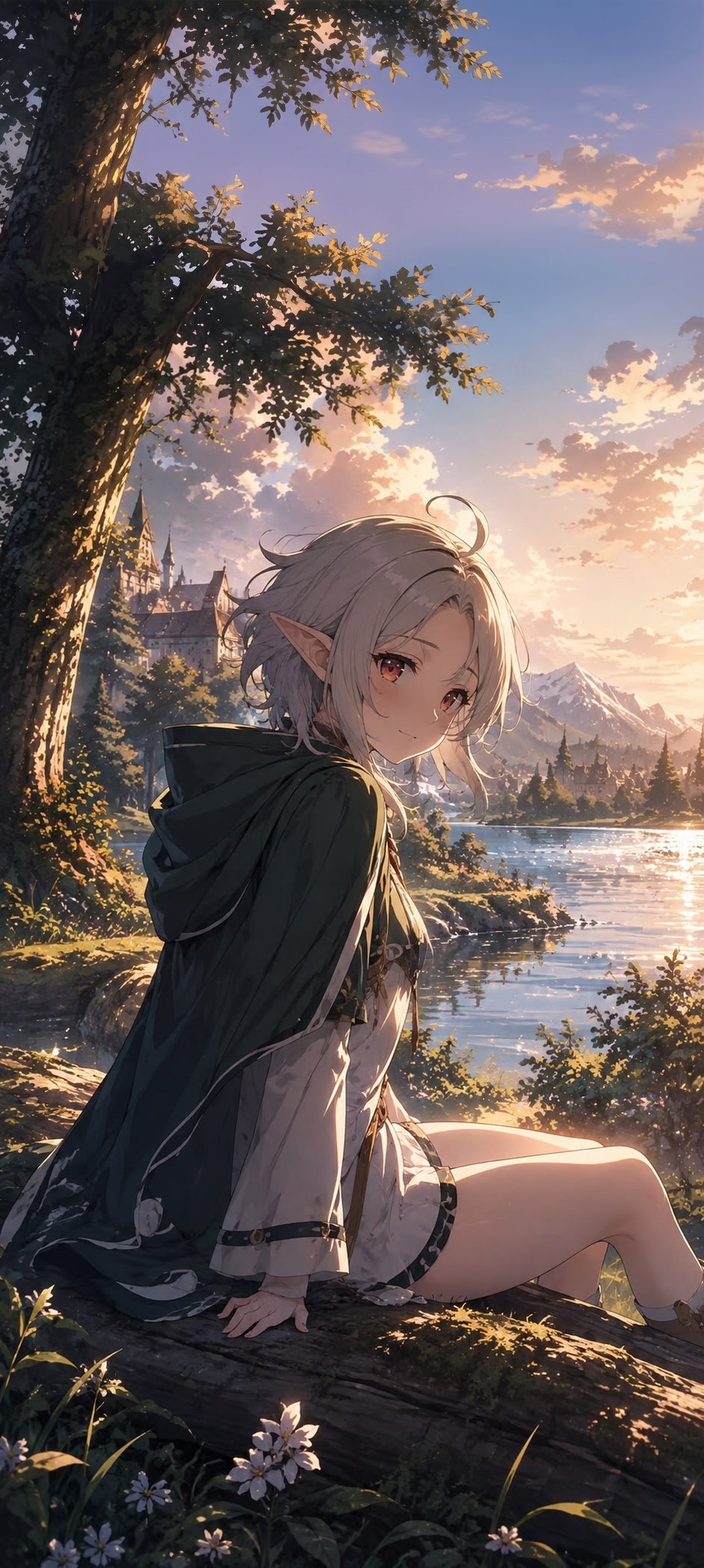
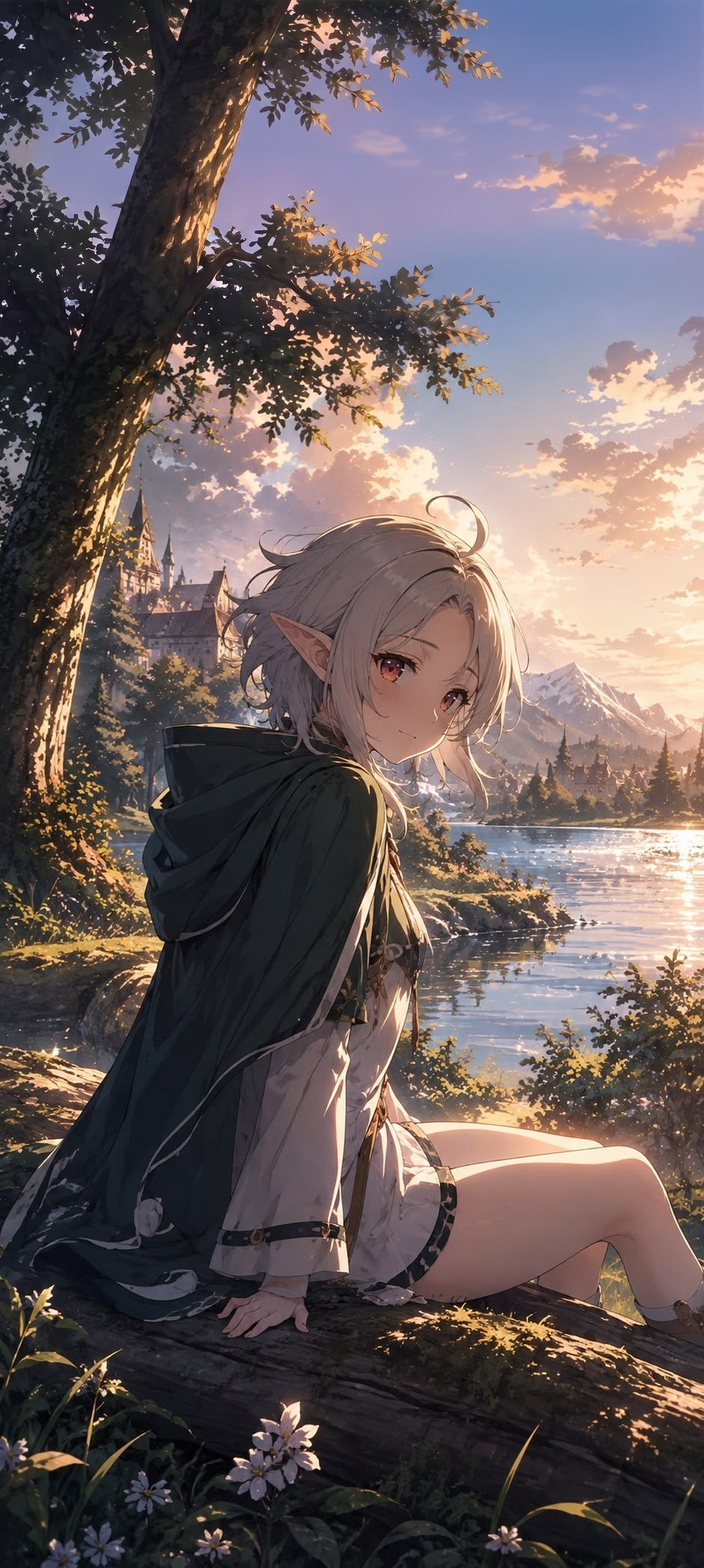
L53: シルフィの待機中の背景、左上の木の幹を描き直し (#83)
* L34: 所有者変更・イカ・潮名の修正・手動運用・釣り人と共有・拡大・経路・処理速度・地図のレイアウト（F-54〜F-57）

- 潮名を月齢の整数部の表（その日の正午）で決め、過去の記録を起動時に直してレポートを作り直す
- 位置情報での自動開始・終了は既定オフ。位置は記録中と地図・撮影を開いている間だけ
- 釣った人の選択（設定 > 釣り人）、CloudKit 公開 DB での仲間との釣果共有、LiDAR 無し端末のカメラ
- 写真・地図の全画面、車の所要時間と経路、現在地のリアルタイム追従、右の縦リスト＋四角い詳細
- ホームの魚種別スコアを外す。釣果のタックル・リグを後から設定。図鑑・釣行詳細を見出し付きに、日付を日本語に
- 処理速度：ViewModel を常駐、ARKit のフレーム積み上げを止める、軽微な保存は通知しない、サムネイルのキャッシュ、軽いスナップショット
- 足場タグが保存されていなかったのを直す。リポジトリ所有者 knowlsaws → sawswork

Claude-Session: https://claude.ai/code/session_01UYc4jCZAzEFFPiByHr3rU2

* L34: 潮名テストの期待値を直す（新月から 4 日目の正午は月齢 2.8 で大潮）

Claude-Session: https://claude.ai/code/session_01UYc4jCZAzEFFPiByHr3rU2

* L34: テーマの配置（F-58）— theme.json で配色・書体・ホーム 1 画面の部品の配置を定義

- Core ThemeSpec / HomeLayout（画像の層と部品を画面に対する割合の座標に置く。検証とテスト付き）
- AppTheme を enum から値型にし、Themes/*/theme.json を起動時に探す。配色は base の上に colors を重ねる
- ホームは配置があれば部品（header/score/chips/feedLine/forecast/chart/table/week/recentCatches/miniMap/nav/button/text/date）を並べ、タブバーを消せる
- タブバーのアイコン列を TabIconsRow に切り出し、nav 部品と共用。ホーム以外の画面には右下のホームボタン
- 例 Themes/forest/theme.json、書き方 docs/07_theme_spec.md

Claude-Session: https://claude.ai/code/session_01UYc4jCZAzEFFPiByHr3rU2

* L34: Theme.swift に import Core（ThemeSpec / HomeLayout を参照するため）

Claude-Session: https://claude.ai/code/session_01UYc4jCZAzEFFPiByHr3rU2

* L34: RootTabView に import Core（HomeLayout の参照を明示）

Claude-Session: https://claude.ai/code/session_01UYc4jCZAzEFFPiByHr3rU2

* L35: 固まりの診断と修正・地図の表示崩れ・シルフィのテーマ例・釣れた位置の手直し（F-59）
[…]

diff --git a/docs/03_loop_plan.md b/docs/03_loop_plan.md
@@ -41,7 +41,8 @@
 | L31 | 釣り場詳細の詳細情報・地図のメモ・相談（F-51〜F-53） | review | #55 | 2026-11-06 開発者「余白にホームのような詳細情報」「地図に点を置いて店先で聞いた情報を追加」「チャットボタンから音声かテキストで Siri に聞いたり、店先の会話を整理して地図に反映」 |
 | L30 | 漁港の即時検索（かな・ローマ字・漢字、F-50） | review | #54 | 2026-11-06 開発者「地図から漁港を検索する時にカタカナやひらがな、漢字でリアルタイムで検索表示」 |
 | L29 | 自宅などでの誤った自動開始の修正 | review | #52 #53 | 2026-11-06 開発者「釣り場ではないところで釣りが開始された」（七重浜 3 丁目：地名の「浜」で海岸近傍と誤判定） |
-| L52 | リグをフック・シンカー・ワームの選択式に（F-64）、釣り人の追加が反映されない不具合 | in_progress | #82 | | 2026-11-11 開発者（撮影画面のリグのシートのスクリーンショット）「フック、シンカー、ワーム、添付の画面から選択式で選択して登録できるように。フックは大きさ、シンカーは重さ、ワームはメーカー、サイズ、色を事前に登録しておきそこから選択するイメージ」「釣り人を追加しても反映されない。何度かやって登録されるのでここも直して」 |
+| L53 | シルフィの待機中の背景：左上の木の幹が折れて見えるのを描き直し | in_progress | #83 | | 2026-11-11 開発者（待機中のスクリーンショット）「ホーム画面の左上の木の画像がズレてます。直してください」 |
+| L52 | リグをフック・シンカー・ワームの選択式に（F-64）、釣り人の追加が反映されない不具合 | review | #82 | 2026-11-11 12:59 JST に TestFlight へ配信 | 2026-11-11 開発者（撮影画面のリグのシートのスクリーンショット）「フック、シンカー、ワーム、添付の画面から選択式で選択して登録できるように。フックは大きさ、シンカーは重さ、ワームはメーカー、サイズ、色を事前に登録しておきそこから選択するイメージ」「釣り人を追加しても反映されない。何度かやって登録されるのでここも直して」 |
 | L51 | 海図の画面：待機中の開始ボタンの見切れ修正、グラフにマズメの帯 | review | #81 | 2026-11-11 11:28 JST に TestFlight へ配信 | 2026-11-11 開発者（シルフィの待機中のスクリーンショット）「下のボタンが見切れてます。直してください。後グラフにマズメの時間に背景に色付けをしてください」 |
 | L50 | テーマ「シルフィ 海図（夕映えの湖）」：海図の 1 画面をシルフィの絵で着せ替え（背景・開始/撮影ボタン・計器・地図の額・メニューの印・各画面の背景）。海図の画面の着せ替えの仕組み（`chart`） | review | #80 | 2026-11-11 10:36 JST に TestFlight へ配信 | 2026-11-11 開発者（シルフィの絵）「テーマ『海図』で新規テーマを追加。シルフィをテーマにしてボタンや輪郭、背景、メニュー、全てに対して細部までこだわり 1 ミリの妥協をせずに。ただし、地図の作り直しは不要。品質が落ちない程度で Gemini のどのモデルを使ってもいい」 |
 | L49 | 海図の画面：釣れ率と潮位のグラフを 1 つに（満潮・干潮は時刻だけ）、右上の風向の計器の見切れ修正 | review | #79 | 2026-11-11 09:12 JST に TestFlight へ配信 | 2026-11-11 開発者（釣行中と待機中のスクリーンショット）「右上の方角のマークが見切れてます」「ホーム画面の 2 つのグラフは 1 つにまとめて。『満潮』や『干潮』や高さは不要。時間だけ表示して」 |
@@ -446,6 +447,14 @@ F-12（手入力サイズ）、F-15（針ロスト・根掛かりマップの完
 - [x] ios-build 緑 → TestFlight へ配信（2026-11-09 18:21 JST）
 - [x] 実機確認：固まりが残る場合は 設定 > 診断 の記録をコピーして知らせる → 開発者がログを共有、L37 で対応
 
+### L53 シルフィの待機中の背景の木（2026-11-11）
+
+受け入れ条件
+- [x] 左上の木が、下から上まで 1 本の幹でつながって見える（折れ・二重の幹が無い）。空と雲、人物は変えない
+- [x] 予想図とカードの絵を更新（`docs/ui/sylphie_lake_preview.jpg`、`thumb.jpg`）
+- [ ] ios-build 緑 → TestFlight へ配信
+- [ ] 実機確認：待機中の左上の木が自然につながっているか
+
 ### L52 リグの選択式、釣り人の追加（2026-11-11、F-64）
 
 受け入れ条件
@@ -454,7 +463,7 @@ F-12（手入力サイズ）、F-15（針ロスト・根掛かりマップの完
 - [x] 設定 > タックル：フック・シンカー・ワームの登録（追加・スワイプで削除）。「リグプリセット」は「これまでの組み合わせ」に
 - [x] 釣果には今までどおり `Rig` が付く（分析・後からの編集・書き出しはそのまま）。SwiftData の表は増やさない
 - [x] 釣り人の追加：1 回で入る（ボタンの形、変換の確定、Return キー）
-- [ ] ios-build 緑 → TestFlight へ配信
+- [x] ios-build 緑 → TestFlight へ配信（PR #82、2026-11-11 12:59 JST）
 - [ ] 実機確認：撮影画面 > 右下の「リグ」→ フック・シンカーを選ぶ → ワームを「追加」で登録して選ぶ → 決定 → チップに出る → 撮影 → 釣行詳細にリグが出る。設定 > 釣り人 で日本語の名前が 1 回で追加されるか
 
 ### L51 待機中のボタンの見切れ、マズメの帯（2026-11-11）

diff --git a/docs/04_decisions.md b/docs/04_decisions.md
@@ -3,6 +3,13 @@
 新しい決定は上に追加する。形式：日付 / 決定 / 理由 / 影響範囲。
 Claude Code が設計判断で迷ったら、まずここに「提案」として書き、PR で問う。
 
+## 2026-11-11 L53 シルフィの待機中の背景：木の幹の描き直し
+
+| 決定 | 理由 | 影響 |
+| --- | --- | --- |
+| 描き足した上の部分の木を、1 本の幹が同じ傾きのまま上へ続く形に描き直す | 開発者「左上の木の画像がズレてます」。位置のずれではなく、描き足しで幹が途中から折れ、太い別の幹が逆向きに継がれたように見えていた。原因は、描き足しの下地に元絵の上端の鏡映しを使ったこと（幹が鏡映しの向きに描かれた） | 継ぎ目の無い今の絵を渡して「木だけ」を描き直させ、元の絵を重ね直した。下地を変えて一から描き足す方法は 4 枚とも継ぎ目が出たので不採用 |
+| 描き足しの下地に鏡映しを使わない（今後のテーマ） | 鏡映しは、斜めのもの（幹・枝・地平線）を逆向きに誘導する | `docs/07_theme_spec.md` の作り方のコツに追記 |
+
 ## 2026-11-11 L52 リグを部品の選択式に、釣り人の追加の不具合
 
 | 決定 | 理由 | 影響 |

diff --git a/App/Resources/Themes/sylphie_lake/README.md b/App/Resources/Themes/sylphie_lake/README.md
@@ -5,7 +5,7 @@
 
 | ファイル | 内容 | 作り方 |
 | --- | --- | --- |
-| `chart_bg_idle.jpg` | 待機中の背景（1206×2683）。開発者の絵そのまま＋上に空と木の続き | 上の 540 行だけ Gemini `gemini-3-pro-image-preview` で描き足し、元の絵を継ぎ目をぼかして重ねた（人物は元の絵のまま） |
+| `chart_bg_idle.jpg` | 待機中の背景（1206×2683）。開発者の絵そのまま＋上に空と木の続き | 上の 540 行だけ Gemini `gemini-3-pro-image-preview` で描き足し、元の絵を継ぎ目をぼかして重ねた（人物は元の絵のまま）。2026-11-11：描き足した所で木の幹が折れて見えたので、幹だけを 1 本につながるよう描き直した |
 | `chart_orb_start.png` | 開始ボタン（銀の蔦の縁、深緑の面。文字はアプリ） | pro、マゼンタ背景 → `scripts/theme_chroma_key.py` |
 | `chart_orb_shutter.png` | 撮影ボタン（夕日の琥珀に、葉の形の絞り） | 同上 |
 | `chart_dial.png` | 風向の計器（銀の目盛り、上に金の葉＝北。針はアプリ） | 同上 |

diff --git a/docs/07_theme_spec.md b/docs/07_theme_spec.md
@@ -151,3 +151,5 @@
 
 「≡」から開くログ・図鑑・設定などは、これまでどおり `colors` と `bg_log` `bg_guide` `bg_sheet` などを使う。
 
+背景の絵を上へ描き足すとき（数字を空に置くため）のコツ：描き足す所の下地に、元絵の鏡映しを使わない（斜めの幹や枝が逆向きに描かれて折れて見える）。描き足したあと、斜めのものが折れていたら「そこだけ」を描き直させ、元の絵を継ぎ目をぼかして重ね直す。
+
